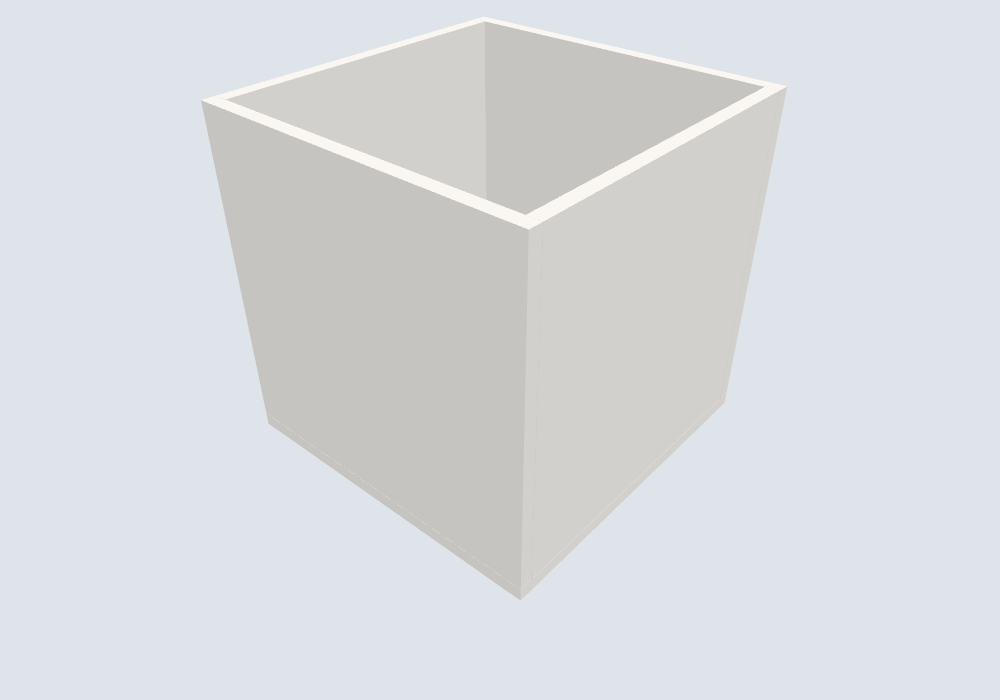
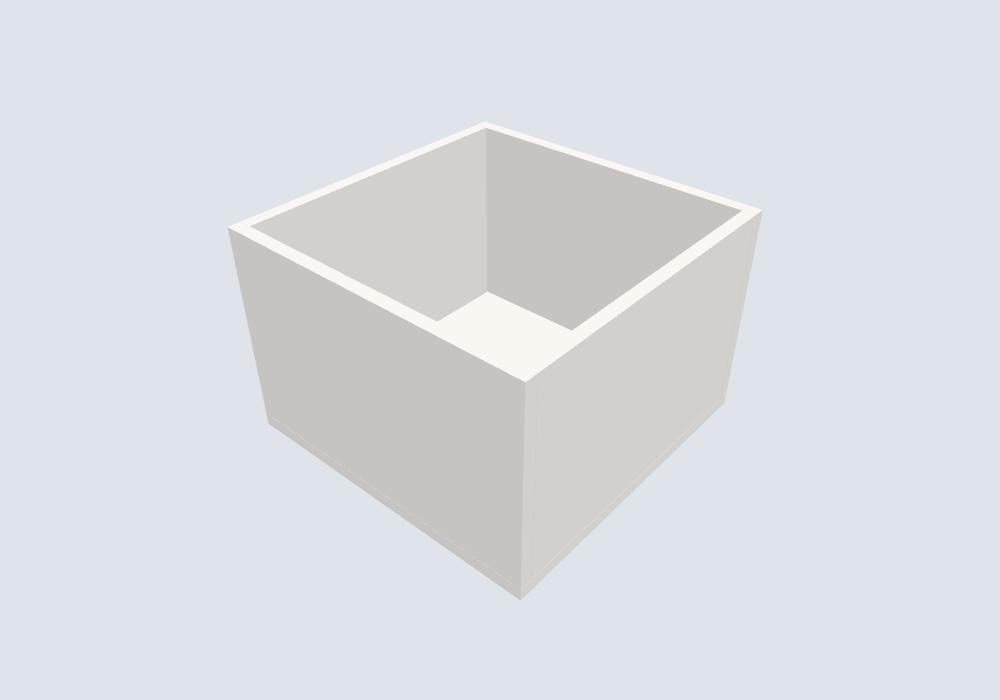
Hall height reduced by a third (166.67 m)
Claude-Session: https://claude.ai/code/session_01SWXPy6War9Jf9BhkNrgaL1

Changed region(s): [[0.186, 0.03, 0.806, 0.54], [0.496, 0.27, 0.589, 0.33]]

diff --git a/Tools/models/grande_salle.js b/Tools/models/grande_salle.js
@@ -1,13 +1,13 @@
-// Grande salle : cube de 250 x 250 x 250 m creusé par le haut (ouvert au-dessus), parois et sol de 10 m d'épaisseur.
+// Grande salle : bloc de 250 x 250 m sur 166,67 m de haut creusé par le haut (ouvert au-dessus), parois et sol de 10 m d'épaisseur.
 // Un seul maillage, sans faces qui se chevauchent. Unités : mètres. Origine au centre du sol, sous la salle (y = 0).
 function buildHall() {
-  const S = 250, T = 10, H = S / 2;
+  const S = 250, T = 10, H = S / 2, HT = S * 2 / 3;   // hauteur réduite d'un tiers : 166,67 m
   const parts = [
     [S, T, S, 0, T / 2, 0],                          // sol
-    [S, S - T, T, 0, T + (S - T) / 2, -H + T / 2],   // mur arrière (pleine largeur)
-    [S, S - T, T, 0, T + (S - T) / 2, H - T / 2],    // mur avant (pleine largeur)
-    [T, S - T, S - 2 * T, -H + T / 2, T + (S - T) / 2, 0],   // mur gauche (entre les deux)
-    [T, S - T, S - 2 * T, H - T / 2, T + (S - T) / 2, 0],    // mur droit
+    [S, HT - T, T, 0, T + (HT - T) / 2, -H + T / 2],   // mur arrière (pleine largeur)
+    [S, HT - T, T, 0, T + (HT - T) / 2, H - T / 2],    // mur avant (pleine largeur)
+    [T, HT - T, S - 2 * T, -H + T / 2, T + (HT - T) / 2, 0],   // mur gauche (entre les deux)
+    [T, HT - T, S - 2 * T, H - T / 2, T + (HT - T) / 2, 0],    // mur droit
   ];
   const geos = parts.map(([w, h, d, x, y, z]) => { const g = new THREE.BoxGeometry(w, h, d); g.translate(x, y, z); return g.toNonIndexed(); });
   const pos = [], nor = [];
